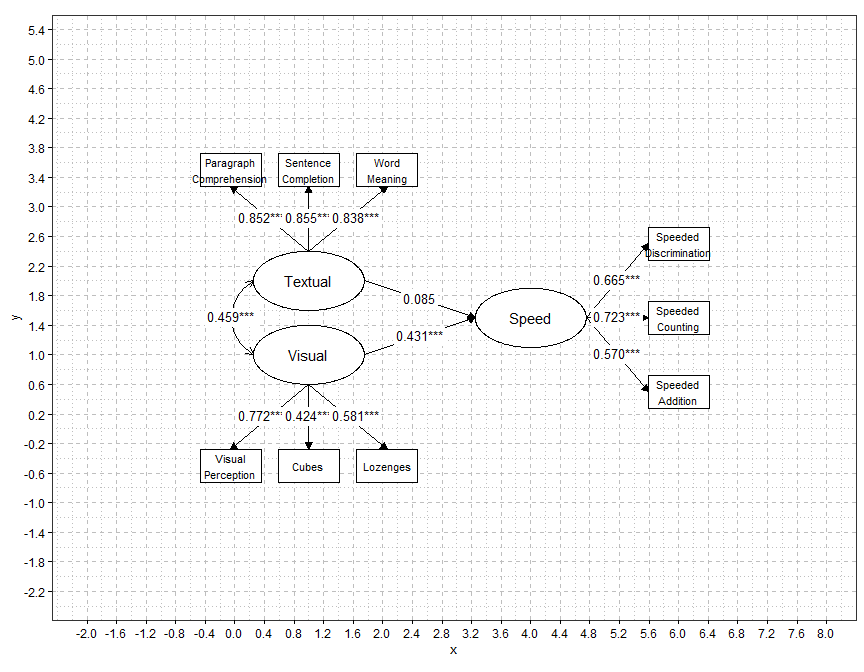
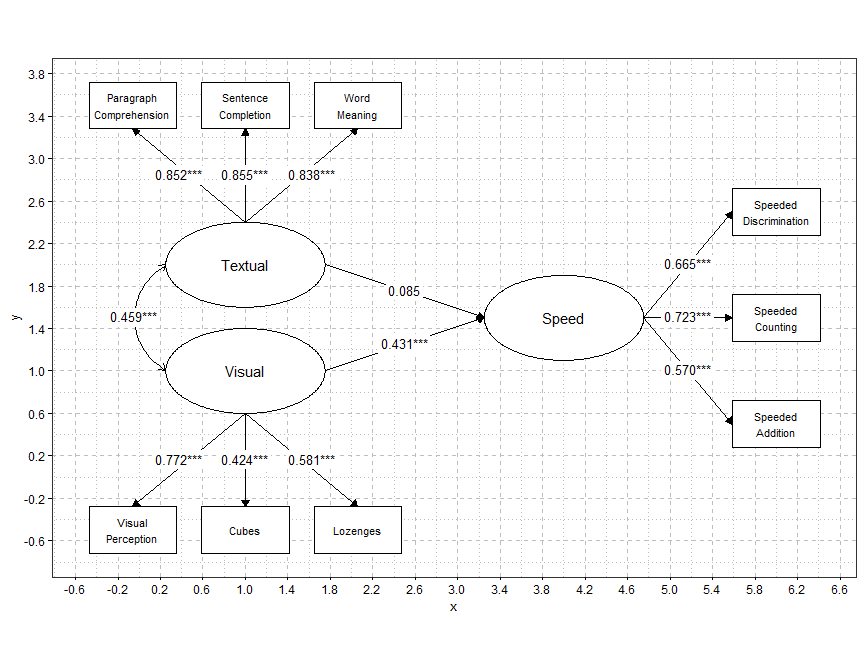
Final push

diff --git a/README.md b/README.md
@@ -116,7 +116,10 @@ p <- diyPaths(
    observed_variable_size_adjust = 0.55, # making observed variables smaller than latent
    observed_node_text_size = 3,
    show_grid = TRUE,
-   grid_axis_scale = 0.4
+   grid_axis_scale = 0.4,
+   margin_x = 0,
+   margin_y_bottom = 0,
+   margin_y_top = 0
 )
 
 print(p)
